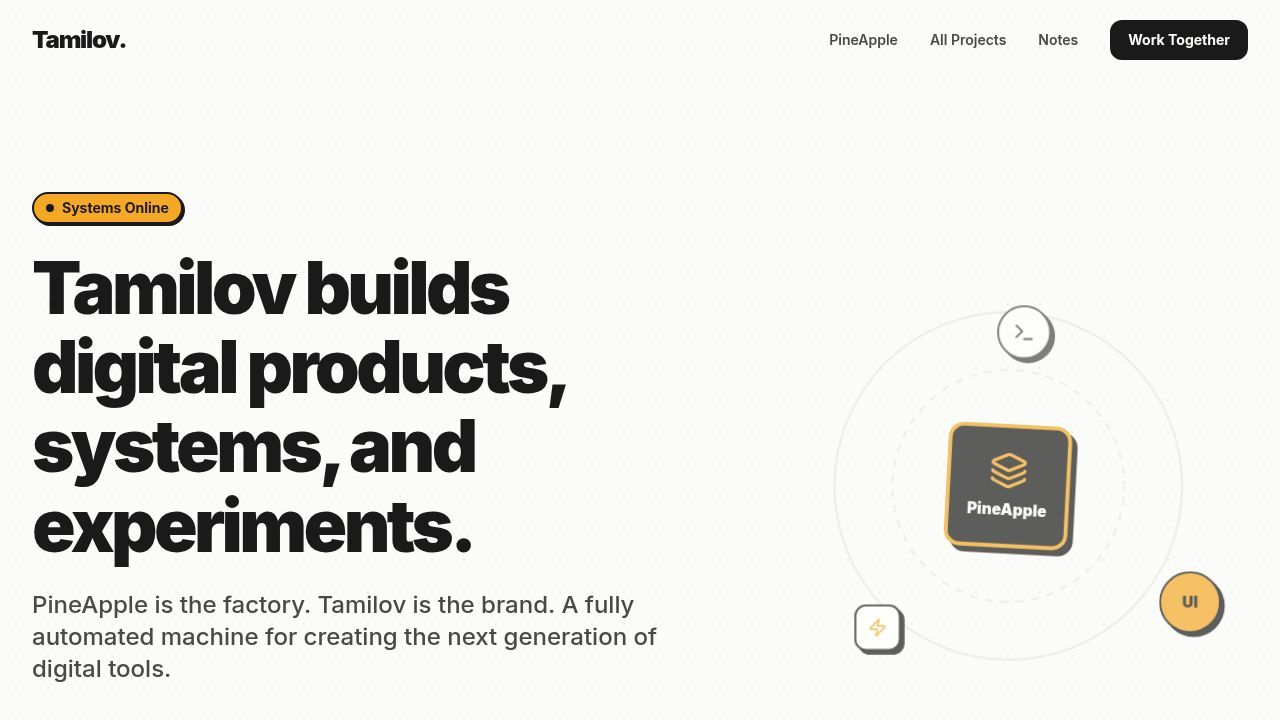
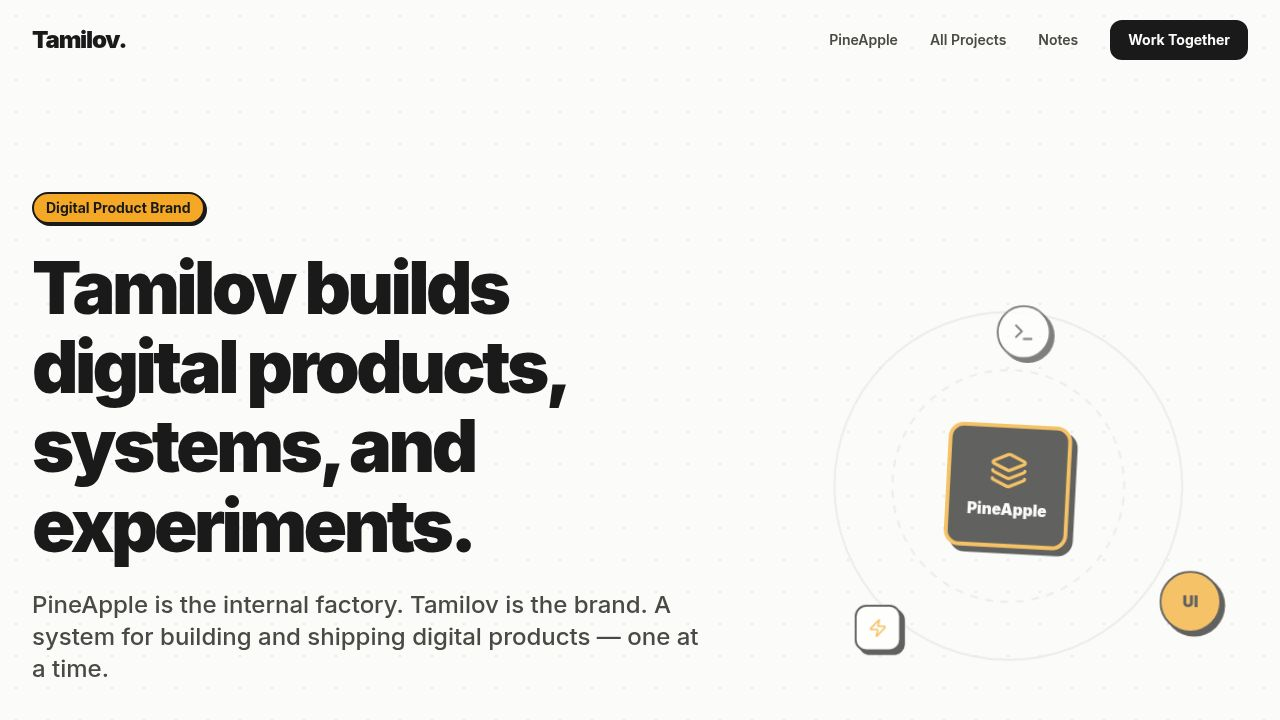
Notes, badge, projects - correction

diff --git a/src/data/notes.ts b/src/data/notes.ts
@@ -28,14 +28,14 @@ export const allNotes: NoteEntry[] = [
     title: "The case for over-engineered systems",
     date: "February 2026",
     category: "Product Philosophy",
-    excerpt: "Most people say keep it simple. I say build the machine first. Why investing heavily in infrastructure pays off.",
+    excerpt: "Most people build outputs. A smaller number build systems that keep producing outputs. That second path looks slower at first — but it compounds.",
     content: [
-      "\"Keep it simple\" is the most repeated advice in product development. And for good reason — premature optimization kills more projects than bad ideas do.",
-      "But there's a nuance that gets lost. If you're building one product, simplicity wins. If you're building a factory that will produce dozens of products, the rules change.",
-      "PineApple exists because I got tired of repeating the same setup, the same patterns, the same launch checklist for every new product. The overhead of building a reusable system was high upfront, but now every new product in the Tamilov ecosystem launches faster than the last.",
-      "The trick is knowing when to invest in infrastructure versus when to ship quick. My rule: if I'll do it more than three times, I systematize it. If it's a one-off experiment, I keep it scrappy.",
-      "Over-engineering isn't about complexity for its own sake. It's about building the right abstractions so that future work becomes trivially simple. The best systems feel effortless to use precisely because someone put in the effort to design them well.",
-      "Build the machine. Then let the machine build the products."
+      "\"Don't overcomplicate it\" is common advice. And in many cases, it's right. But there's a difference between unnecessary complexity and intentional systems design.",
+      "A lot of people build outputs. A smaller number build systems that keep producing outputs long after the first launch. That second path looks slower at the beginning, but it compounds.",
+      "Over-engineered systems get a bad reputation because they're often associated with waste: too many abstractions, too many tools, too much architecture before there's a real need. But when done well, systems design is not about excess. It's about repeatability.",
+      "That's the role PineApple plays inside Tamilov. It exists so that each new product doesn't start from zero. Design patterns, component logic, structure, launch flow, writing standards — these are all parts of a machine that make future work faster and better.",
+      "A good system doesn't remove creativity. It protects it. It removes the noise around execution so attention can stay on what actually matters: taste, product judgment, positioning, and speed.",
+      "A one-off success is useful. A system that can produce multiple useful things is better."
     ]
   },
   {
@@ -43,14 +43,14 @@ export const allNotes: NoteEntry[] = [
     title: "What Gumroad got right about design",
     date: "January 2026",
     category: "Design Systems",
-    excerpt: "Bold typography, thick borders, and direct messaging. A masterclass in creator-economy design language.",
+    excerpt: "A lot of modern product sites are visually polished but emotionally forgettable. Gumroad is one of the better examples of the opposite.",
     content: [
-      "Gumroad's design language is one of the most distinctive in the creator economy. Bold sans-serif type, thick outlines, high-contrast color, and no filler. It communicates confidence and clarity in every pixel.",
-      "What makes it work isn't any single element — it's the consistency. Every component follows the same rules. Every page feels like it belongs to the same world. That's what a real design system achieves.",
-      "The Tamilov visual identity borrows from this approach. Not as a copy, but as inspiration. The principles are the same: bold over subtle, clear over clever, direct over decorated.",
-      "In practice, this means thick borders on every card, Inter as the workhorse typeface at heavy weights, a near-black and off-white palette with a single accent color, and no unnecessary shadows or gradients.",
-      "The result is a design language that feels premium without being corporate, playful without being casual, and distinctive without being noisy.",
-      "Good design isn't about making things pretty. It's about making decisions visible. Every border, every font weight, every color choice is a statement about what you value."
+      "A lot of modern product sites are visually polished but emotionally forgettable. They look correct, but they don't feel distinct. Gumroad has long been one of the better examples of the opposite.",
+      "What it gets right starts with hierarchy. Big type. Strong contrast. Clear blocks. No confusion about what matters most on the page.",
+      "That sounds simple, but most brands dilute themselves through caution. They make everything balanced, everything clean, everything safe. In the process, they lose memorability.",
+      "Gumroad shows that simplicity does not have to mean flatness. A site can be minimal and still have character. It can be structured and still feel alive.",
+      "That design philosophy influenced Tamilov directly. Not in the sense of copying layouts, but in understanding that brand presence often comes from confidence, not decoration. If the type is strong, the spacing is deliberate, and the message is clear, the site does not need much else.",
+      "The lesson is not \"design like Gumroad.\" The lesson is that clarity with personality beats generic polish almost every time."
     ]
   },
   {

diff --git a/src/components/sections/Hero.tsx b/src/components/sections/Hero.tsx
@@ -36,18 +36,14 @@ export function Hero() {
               animate={{ opacity: 1, y: 0 }}
               transition={{ duration: 0.5 }}
             >
-              <div className="inline-flex items-center gap-2 px-3 py-1 mb-6 rounded-full border-2 border-foreground bg-accent text-accent-foreground text-sm font-bold shadow-brutal-sm">
-                <span className="relative flex h-2 w-2">
-                  <span className="animate-ping absolute inline-flex h-full w-full rounded-full bg-foreground opacity-75"></span>
-                  <span className="relative inline-flex rounded-full h-2 w-2 bg-foreground"></span>
-                </span>
-                Systems Online
+              <div className="inline-flex items-center px-3 py-1 mb-6 rounded-full border-2 border-foreground bg-accent text-accent-foreground text-sm font-bold shadow-brutal-sm">
+                Digital Product Brand
               </div>
               <h1 className="text-4xl sm:text-5xl md:text-6xl lg:text-7xl font-black leading-[1.1] tracking-tighter text-foreground mb-6">
                 Tamilov builds digital products, systems, and experiments.
               </h1>
               <p className="text-xl md:text-2xl text-muted-foreground font-medium mb-10 max-w-2xl">
-                PineApple is the factory. Tamilov is the brand. A fully automated machine for creating the next generation of digital tools.
+                PineApple is the internal factory. Tamilov is the brand. A system for building and shipping digital products — one at a time.
               </p>
             </motion.div>
 
@@ -124,12 +120,12 @@ export function Hero() {
       <div className="max-w-7xl mx-auto px-4 sm:px-6 lg:px-8 mt-20">
         <div className="border-2 border-foreground rounded-2xl bg-white shadow-brutal flex flex-col md:flex-row overflow-hidden divide-y-2 md:divide-y-0 md:divide-x-2 divide-foreground">
           <div className="p-6 flex-1 flex flex-col items-center justify-center text-center group hover:bg-muted/50 transition-colors">
-            <span className="text-4xl font-black text-foreground mb-1">7</span>
-            <span className="text-sm font-bold text-muted-foreground uppercase tracking-widest">Products in Dev</span>
+            <span className="text-4xl font-black text-foreground mb-1">5+</span>
+            <span className="text-sm font-bold text-muted-foreground uppercase tracking-widest">In the Pipeline</span>
           </div>
           <div className="p-6 flex-1 flex flex-col items-center justify-center text-center group hover:bg-muted/50 transition-colors bg-accent/10">
-            <span className="text-4xl font-black text-accent mb-1">3</span>
-            <span className="text-sm font-bold text-muted-foreground uppercase tracking-widest">Live Now</span>
+            <span className="text-4xl font-black text-accent mb-1">Open</span>
+            <span className="text-sm font-bold text-muted-foreground uppercase tracking-widest">Building in Public</span>
           </div>
           <div className="p-6 flex-1 flex flex-col items-center justify-center text-center group hover:bg-muted/50 transition-colors">
             <span className="text-4xl font-black text-foreground mb-1">100%</span>

diff --git a/src/pages/projects.tsx b/src/pages/projects.tsx
@@ -15,28 +15,28 @@ const projects = [
   {
     name: "BuildKit",
     desc: "Component library for rapid premium product design. Reusable building blocks that maintain the Tamilov visual identity across products.",
-    status: "live" as const,
+    status: "in development" as const,
     role: "Design system",
     href: null,
   },
   {
     name: "NoteStack",
     desc: "Structured interconnected knowledge base for builders. Organize thoughts, connect ideas, and build a second brain.",
-    status: "live" as const,
+    status: "in development" as const,
     role: "Knowledge tool",
     href: null,
   },
   {
     name: "FormFlow",
     desc: "Smart form builder with complex logic and automation. Create adaptive forms that respond to user input in real time.",
-    status: "beta" as const,
+    status: "concept" as const,
     role: "Product tool",
     href: null,
   },
   {
     name: "Orbit",
     desc: "Creator analytics and aggregated growth dashboard. Track performance across platforms in one unified view.",
-    status: "beta" as const,
+    status: "concept" as const,
     role: "Analytics",
     href: null,
   },

diff --git a/src/components/ui/Badge.tsx b/src/components/ui/Badge.tsx
@@ -2,7 +2,7 @@ import * as React from "react"
 import { cn } from "@/lib/utils"
 
 export interface BadgeProps extends React.HTMLAttributes<HTMLDivElement> {
-  variant?: "default" | "live" | "beta" | "concept" | "internal"
+  variant?: "default" | "live" | "beta" | "concept" | "internal" | "in development"
 }
 
 function Badge({ className, variant = "default", ...props }: BadgeProps) {
@@ -16,6 +16,7 @@ function Badge({ className, variant = "default", ...props }: BadgeProps) {
           "border-status-beta bg-status-beta text-foreground": variant === "beta",
           "border-status-concept bg-status-concept/10 text-status-concept": variant === "concept",
           "border-foreground bg-foreground text-background": variant === "internal",
+          "border-muted-foreground/40 bg-muted text-muted-foreground": variant === "in development",
         },
         className
       )}

diff --git a/src/components/sections/WorkTogether.tsx b/src/components/sections/WorkTogether.tsx
@@ -5,22 +5,22 @@ const services = [
   {
     title: "Product Landing Pages",
     desc: "High-converting, extremely bold pages built for digital products and SaaS launches.",
-    price: "$2,400"
+    price: "$100"
   },
   {
     title: "Branded Interfaces",
     desc: "Custom UI systems with your brand's language, design tokens, and interaction models.",
-    price: "$4,800"
+    price: "$350"
   },
   {
     title: "Digital Systems",
     desc: "Automated workflows, product pipelines, and custom digital infrastructure.",
-    price: "$6,000"
+    price: "$640"
   },
   {
     title: "Concept to MVP",
     desc: "From raw idea validation to a fully launched product, end to end.",
-    price: "$9,600"
+    price: "$920"
   }
 ]
 

diff --git a/src/components/sections/Ecosystem.tsx b/src/components/sections/Ecosystem.tsx
@@ -13,25 +13,25 @@ const products = [
   {
     name: "BuildKit",
     desc: "Component library for rapid premium product design.",
-    status: "live",
+    status: "in development",
     href: null,
   },
   {
     name: "NoteStack",
     desc: "Structured interconnected knowledge base for builders.",
-    status: "live",
+    status: "in development",
     href: null,
   },
   {
     name: "FormFlow",
     desc: "Smart form builder with complex logic and automation.",
-    status: "beta",
+    status: "concept",
     href: null,
   },
   {
     name: "Orbit",
     desc: "Creator analytics and aggregated growth dashboard.",
-    status: "beta",
+    status: "concept",
     href: null,
   },
   {

diff --git a/src/components/layout/Navbar.tsx b/src/components/layout/Navbar.tsx
@@ -5,9 +5,9 @@ import { Link } from "wouter"
 import { Button } from "@/components/ui/Button"
 
 const navLinks = [
-  { name: "PineApple", href: "/projects/pineapple" },
   { name: "All Projects", href: "/projects" },
   { name: "Notes", href: "/notes" },
+  { name: "PineApple", href: "/projects/pineapple" },
 ]
 
 export function Navbar() {
